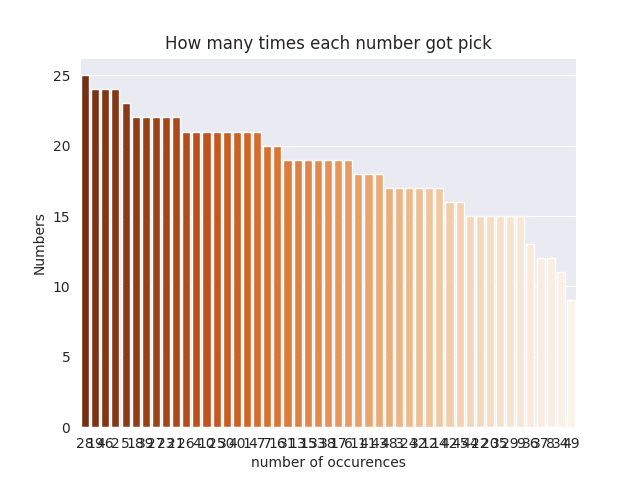
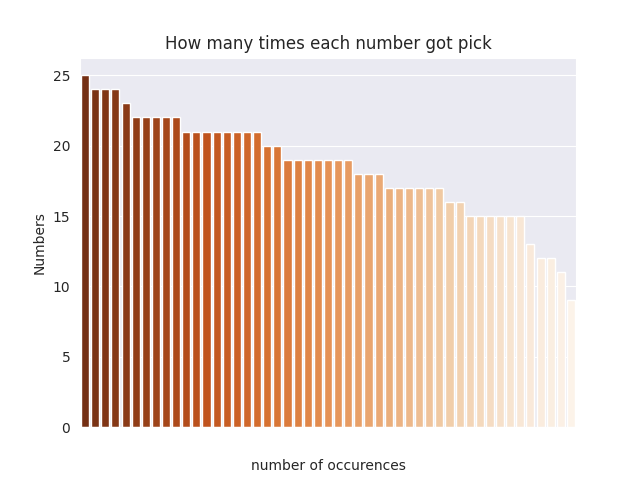
need to pull

Changed region(s): [[0.125, 0.9062, 0.9062, 1.0]]

diff --git a/the_results/data/graphs.py b/the_results/data/graphs.py
@@ -8,18 +8,37 @@ from datetime import datetime
 
 df2 = get_dates_results()
 
-print(df2.head())
+# This is basically so that numbers don't go on top of each other 
+def offset_for_labeles(ax, offset= -16):
+    #offset = -16  
+    for i, label in enumerate(ax.get_xticklabels()):
+    
+        y = offset
+        ax.text(i, y, label.get_text(), ha='center', va='bottom', fontsize=10)
+        
+        offset = - 16
+        if i%2 == 1:
+            d = 0
+        else:
+            d = 6
+
+        offset += d
+        
+    ax.set_xticklabels([])
+
+
 
 sub_df1 = df2[["number","average_time_between"]]
 
 sns.set_style("darkgrid")  
-sns.barplot(x='number', y='average_time_between', data=sub_df1, palette='Blues_d') 
+ax = sns.barplot(x='number', y='average_time_between', data=sub_df1, palette='Blues_d') 
 plt.title("On average how long it takes for number to be picked again")  
-plt.xlabel("number") 
+plt.xlabel("number", labelpad=16) 
 plt.ylabel("Number of days")  
 
-#plt.xticks(rotation=90)
+offset_for_labeles(ax,-10)
 plt.savefig('the_results/graphs/average_number_od_days.png')
+
 #plt.show()
 plt.clf()
 
@@ -32,12 +51,13 @@ df = df.sort_values(by='occurences', ascending=False)
 sub_df3 = df[['number','occurences']]
 
 sns.set_style("darkgrid")  
-sns.barplot(x='number', y='occurences', data=sub_df3, palette='Oranges_r') 
-plt.xlabel('number of occurences')
+ax = sns.barplot(x='number', y='occurences', data=sub_df3, palette='Oranges_r') 
+plt.xlabel('number of occurences', labelpad=16)
 plt.ylabel('Numbers')
 plt.title('How many times each number got pick')
 
 #plt.xticks(rotation=90)
+offset_for_labeles(ax)
 plt.savefig('the_results/graphs/basic_graph_number_of_picks.png')
 #plt.show()
 plt.clf()
@@ -54,25 +74,7 @@ plt.xlabel("numbers",labelpad=16)
 plt.ylabel("Number of days")
 
 
-
-# This is basically so that numbers don't go on top of each other 
-offset = -16  
-for i, label in enumerate(ax.get_xticklabels()):
-   
-    x = i
-    y = offset
-    ax.text(x, y, label.get_text(), ha='center', va='bottom', fontsize=10)
-    
-    offset = - 16
-    if i%2 == 1:
-        d = 0
-    else:
-        d = 6
-
-    offset += d
-    
-    
-ax.set_xticklabels([])
+offset_for_labeles(ax)
 
 
 plt.savefig('the_results/graphs/days_since_last_pick.png')
